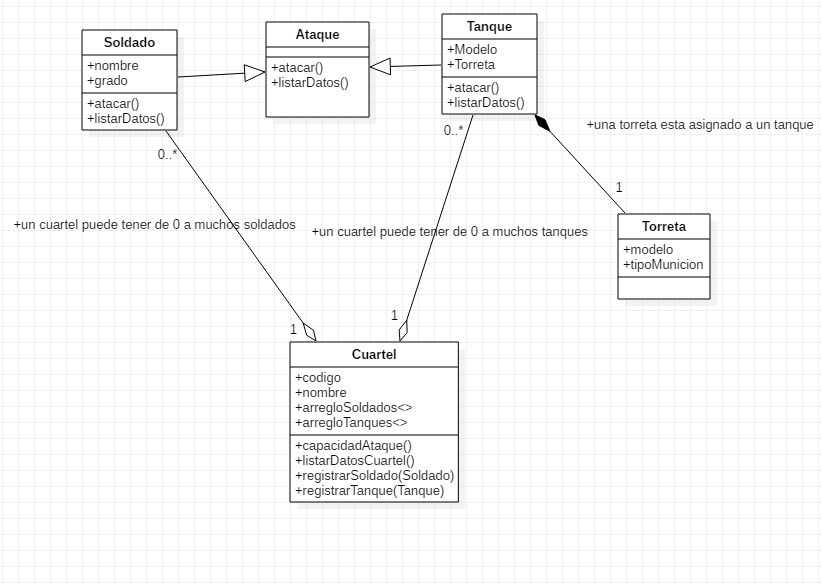
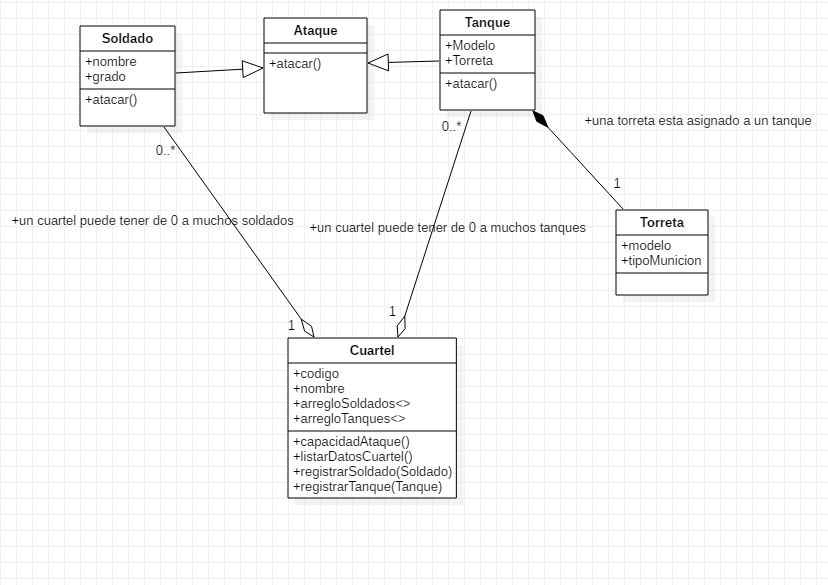
Ejercicio Cuartel

diff --git a/src/Cuartel/Main.java b/src/Cuartel/Main.java
@@ -22,11 +22,11 @@ public class Main {
         cuartel1.registrarTanque (tanque3);
         System.out.println ("------SOLDADOS----------");
         for (Soldado s:cuartel1.getArregloSoldados ()){
-            System.out.println (s.listarDatos ());
+            System.out.println (s.toString ());
         }
         System.out.println ("------TANQUES-------------");
         for (Tanque t: cuartel1.getArregloTanques ()){
-            System.out.println (t.listarDatos ());
+            System.out.println (t.toString ());
         }
         System.out.println ("-------CUARTEL--------");
         System.out.println (cuartel1.ListarDatosCuartel ());

diff --git a/src/Cuartel/Tanque.java b/src/Cuartel/Tanque.java
@@ -23,7 +23,7 @@ public class Tanque extends Ataque {
     }
 
     @Override
-   public String listarDatos(){
+   public String toString (){
         return this.getClass ().getSimpleName ()+"\nModelo: "+modelo+"\nModelo de torreta: "+torreta.getModeloTorreta ()+"\nTipo de Municion: "+torreta.getTipoMunicion ()
                 +"\nAtaque: "+ataque ()+"\n";
     }

diff --git a/src/Cuartel/Soldado.java b/src/Cuartel/Soldado.java
@@ -23,7 +23,7 @@ public class Soldado extends  Ataque{
     }
 
     @Override
-   public String listarDatos(){
+   public String toString (){
         return this.getClass ().getSimpleName ()+"\nNombre: "+nombre+"\nGrado: "+grado+"\nAtaque: "+ataque ()+"\n";
     }
 }

diff --git a/src/Cuartel/Ataque.java b/src/Cuartel/Ataque.java
@@ -3,5 +3,5 @@ package Cuartel;
 public abstract class Ataque {
 
     public abstract String ataque();
-    public abstract String listarDatos();
+    public abstract String toString ();
 }
